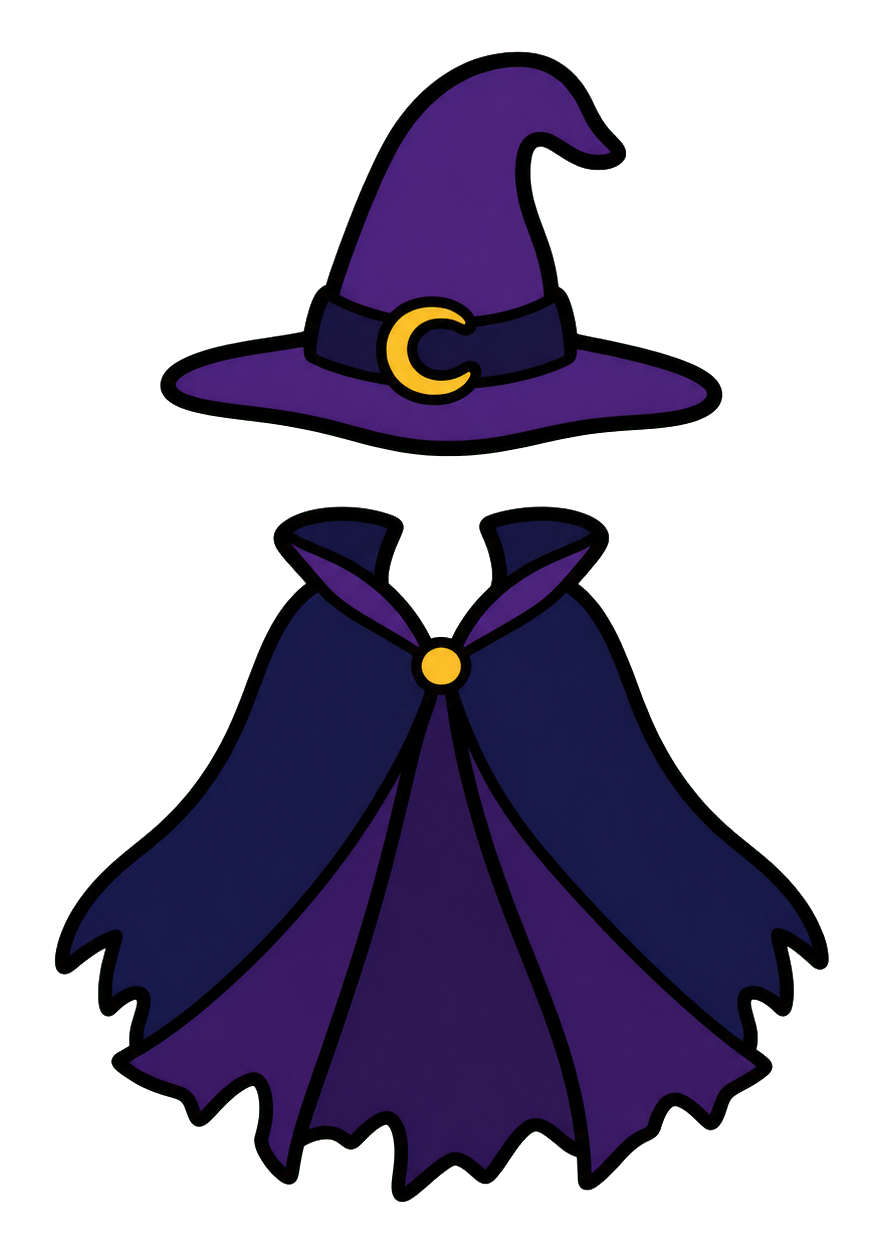
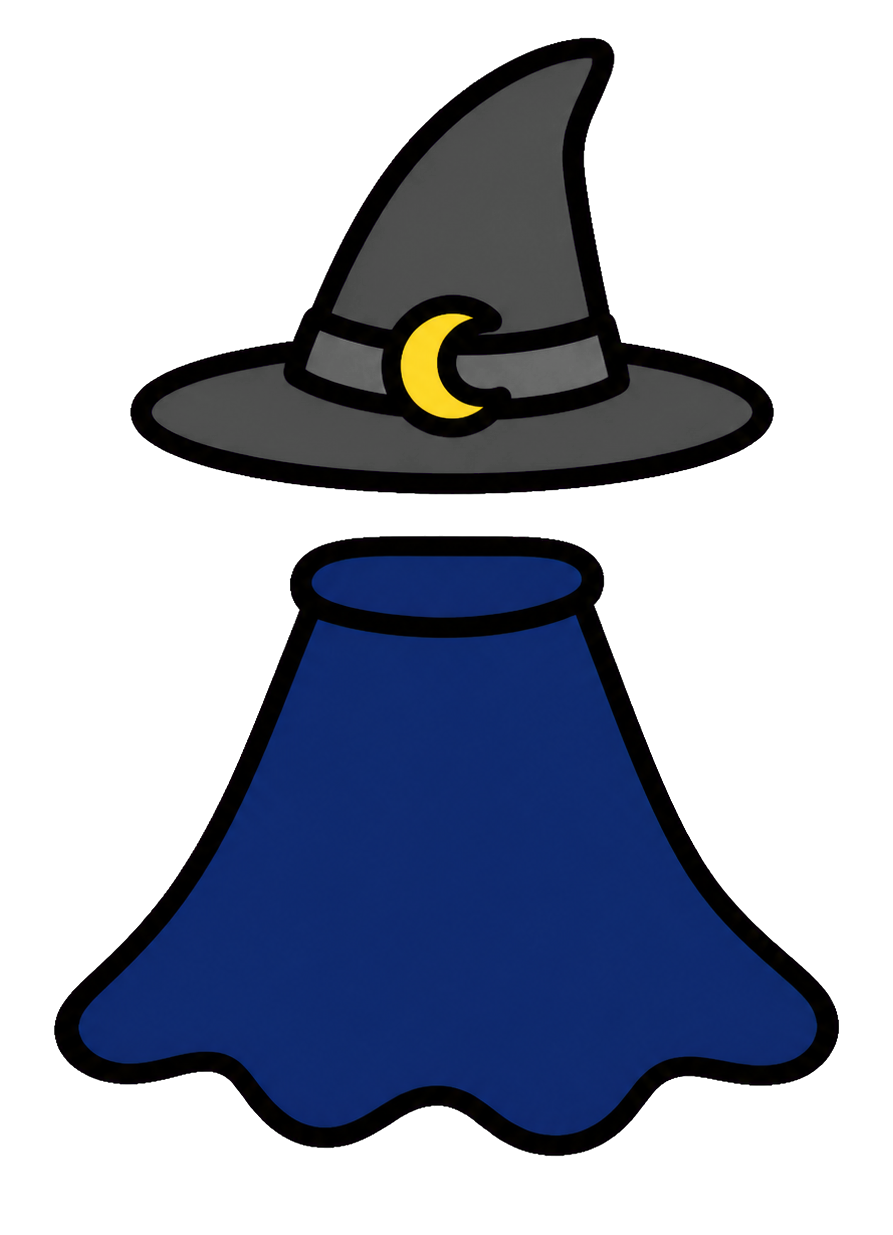
hexbrim: flat-doodle art v2; sheepbert: Bowbert's polymorph form (rigged)
Hexbrim's realistic v1 art is rejected (kept in source/) and replaced
with the flat chunky doodle version per review. Sheepbert lands via the
standard pipeline (fit IoU 0.998; sheep in Bowbert's hood with the
little flag) as kind: player-form, rendered by BowbertRenderer while
hexed. studio:qc 0 errors.

Claude-Session: https://claude.ai/code/session_01PyGFYpbDf9DFNyfSs3Zont

diff --git a/assets/characters/hexbrim/brief.md b/assets/characters/hexbrim/brief.md
@@ -6,9 +6,8 @@ lockedReference: source/reference-01.png
 sourceReferences:
   - source/reference-01.png
 openItems:
-  - INTEGRATED (kit + workbench slot + /?encounter=hexbrim). Review aids: 强制弹幕/强制咒术/强制传送/强制分身 buttons. Status stays rigged pending human review.
-  - True polymorph (turning Bowbert into a sheep like the Hades II hex) needs player-model support; v1 hex detonation deals damage instead.
-  - Boss HP / cadence / phase thresholds are first-pass numbers for review.
+  - INTEGRATED (kit + workbench slot + /?encounter=hexbrim). Review aids: 强制弹幕/咒术/波环/传送/分身 buttons; Bowbert card has 变羊4秒. Status stays rigged pending human review.
+  - Boss HP 64 / cadence / phase thresholds are first-pass numbers for review.
   - Boss room presentation (intro beat, health bar?) is future gameplay work.
 ---
 
@@ -20,13 +19,14 @@ Role:
 Behavior (kit `hexbrimKit`, mechanics modeled on Hades II's first-chapter headmistress fight):
 - float: hovers keeping mid-range, orbiting Bowbert.
 - volley: telegraphed fan of 5 magic bolts (7 in phase 3) via the enemy dart system (black-ink style).
-- hexcast: a polymorph circle blooms under Bowbert (0.95s) and detonates — the sheep-hex homage (v1 damages; true morph is an open item). Phase 3 casts two.
+- hexcast: a polymorph circle blooms under Bowbert (0.95s) and detonates — caught inside, Bowbert IS the sheep (Sheepbert form, 4s: no bow, 55% speed, tumble intact; i-frames dodge it). Phase 3 casts two.
 - teleport: vanishes into a portal (invulnerable), reappears away from Bowbert.
-- clones (phase 2, hp <= 66%): splits into the real boss + 2 identical 1-HP illusions; illusions volley too and dispel in one hit; killing the boss dispels all.
+- ring: a telegraphed shockwave ring expands from the boss (damage on edge contact; dodge through it). Phase 3 fires ring pairs.
+- clones (at 66% AND 33% hp): splits into the real boss + 2 identical 1-HP illusions; illusions volley too and dispel in one hit; killing the boss dispels all.
 - Phase 3 (hp <= 33%): faster float cadence, wider volleys, double hexcast.
 
 Visual target:
-- Locked reference: purple hat with moon-gold crescent buckle + midnight cloak, tattered hem, void between. Spooky-cute doodle.
+- Locked reference (v2, flat doodle per review): chunky flat purple hat with crescent buckle + plain blue cloak, void between; rejected realistic v1 kept in source/.
 
 Decomposition:
 - base.png: the complete outfit, transparent background. No attachments, no eye whites.

diff --git a/assets/characters/sheepbert/brief.md b/assets/characters/sheepbert/brief.md
@@ -1,0 +1,28 @@
+---
+status: rigged
+kind: player-form
+projectContext: bowbert
+lockedReference: source/reference-01.png
+sourceReferences:
+  - source/reference-01.png
+openItems:
+  - Tune sheep waddle feel and hex duration alongside Hexbrim balancing.
+  - Decide whether i-frames should also dodge the hex circle edge cases.
+---
+
+# Sheepbert
+
+Role:
+- Not an enemy: Bowbert's polymorphed form while Hexbrim's sheep hex is active (the Hades II homage, 1:1 per review). Rendered by BowbertRenderer when `state.hexedMs > 0`.
+
+Behavior (owned by BowbertPlayerModel):
+- While hexed: cannot draw the bow, moves at 55% speed, can still tumble-dodge (i-frames intact); form expires after the hex duration (~4s).
+- Getting hexed while i-framed is ignored (dodge through the circle).
+
+Visual target:
+- Locked reference: round fluffy sheep in Bowbert's green leaf hood with the little red flag — unmistakably still our hero, just... wool.
+
+Decomposition:
+- base.png: complete sheep with baked white eye sockets, transparent background.
+- Runtime eyes: standard template (scared while hexed reads great), fit IoU per pipeline.
+- Runtime motion: waddle bob/squash via the player renderer's existing channels.
